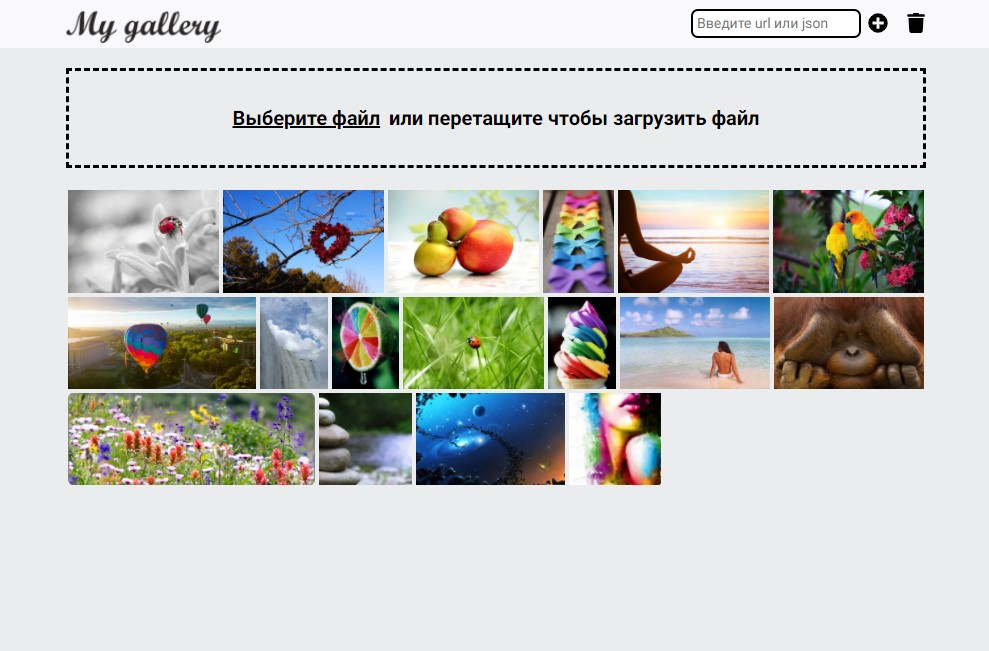
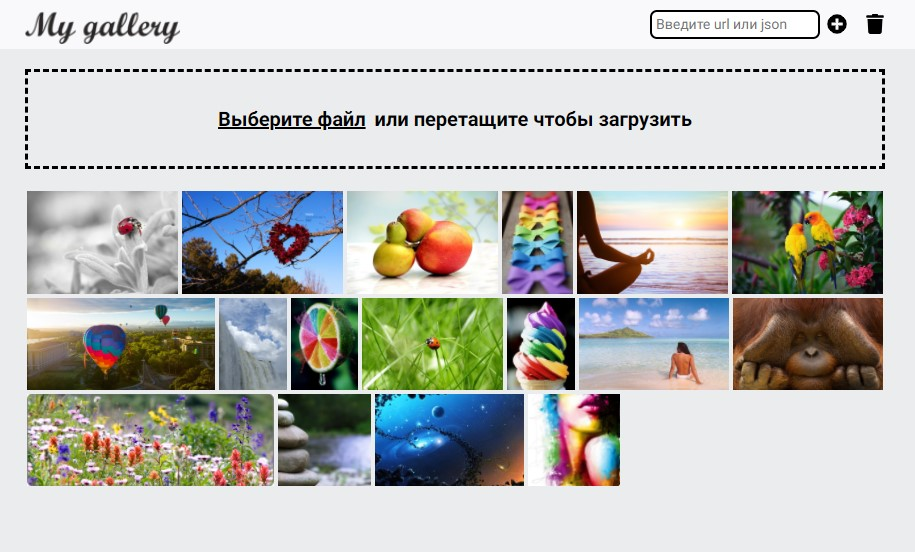
New screenshot

diff --git a/src/components/DragArea/DragArea.jsx b/src/components/DragArea/DragArea.jsx
@@ -49,7 +49,7 @@ class DragArea extends React.Component {
                     onDragLeave={e => dragLeave(e)}
                     onDragOver={e => dragStart(e)}
                 > <input multiple="multiple" type="file" id="input-file" name="img" onChange={onChangeInputFile} accept="image/jpeg,image/png,image/gif,json"></input>
-                    <label htmlFor="input-file" className="load-btn">Выберите файл</label> или перетащите чтобы загрузить файл</div>
+                    <label htmlFor="input-file" className="load-btn">Выберите файл</label> или перетащите чтобы загрузить</div>
             }
 
 
